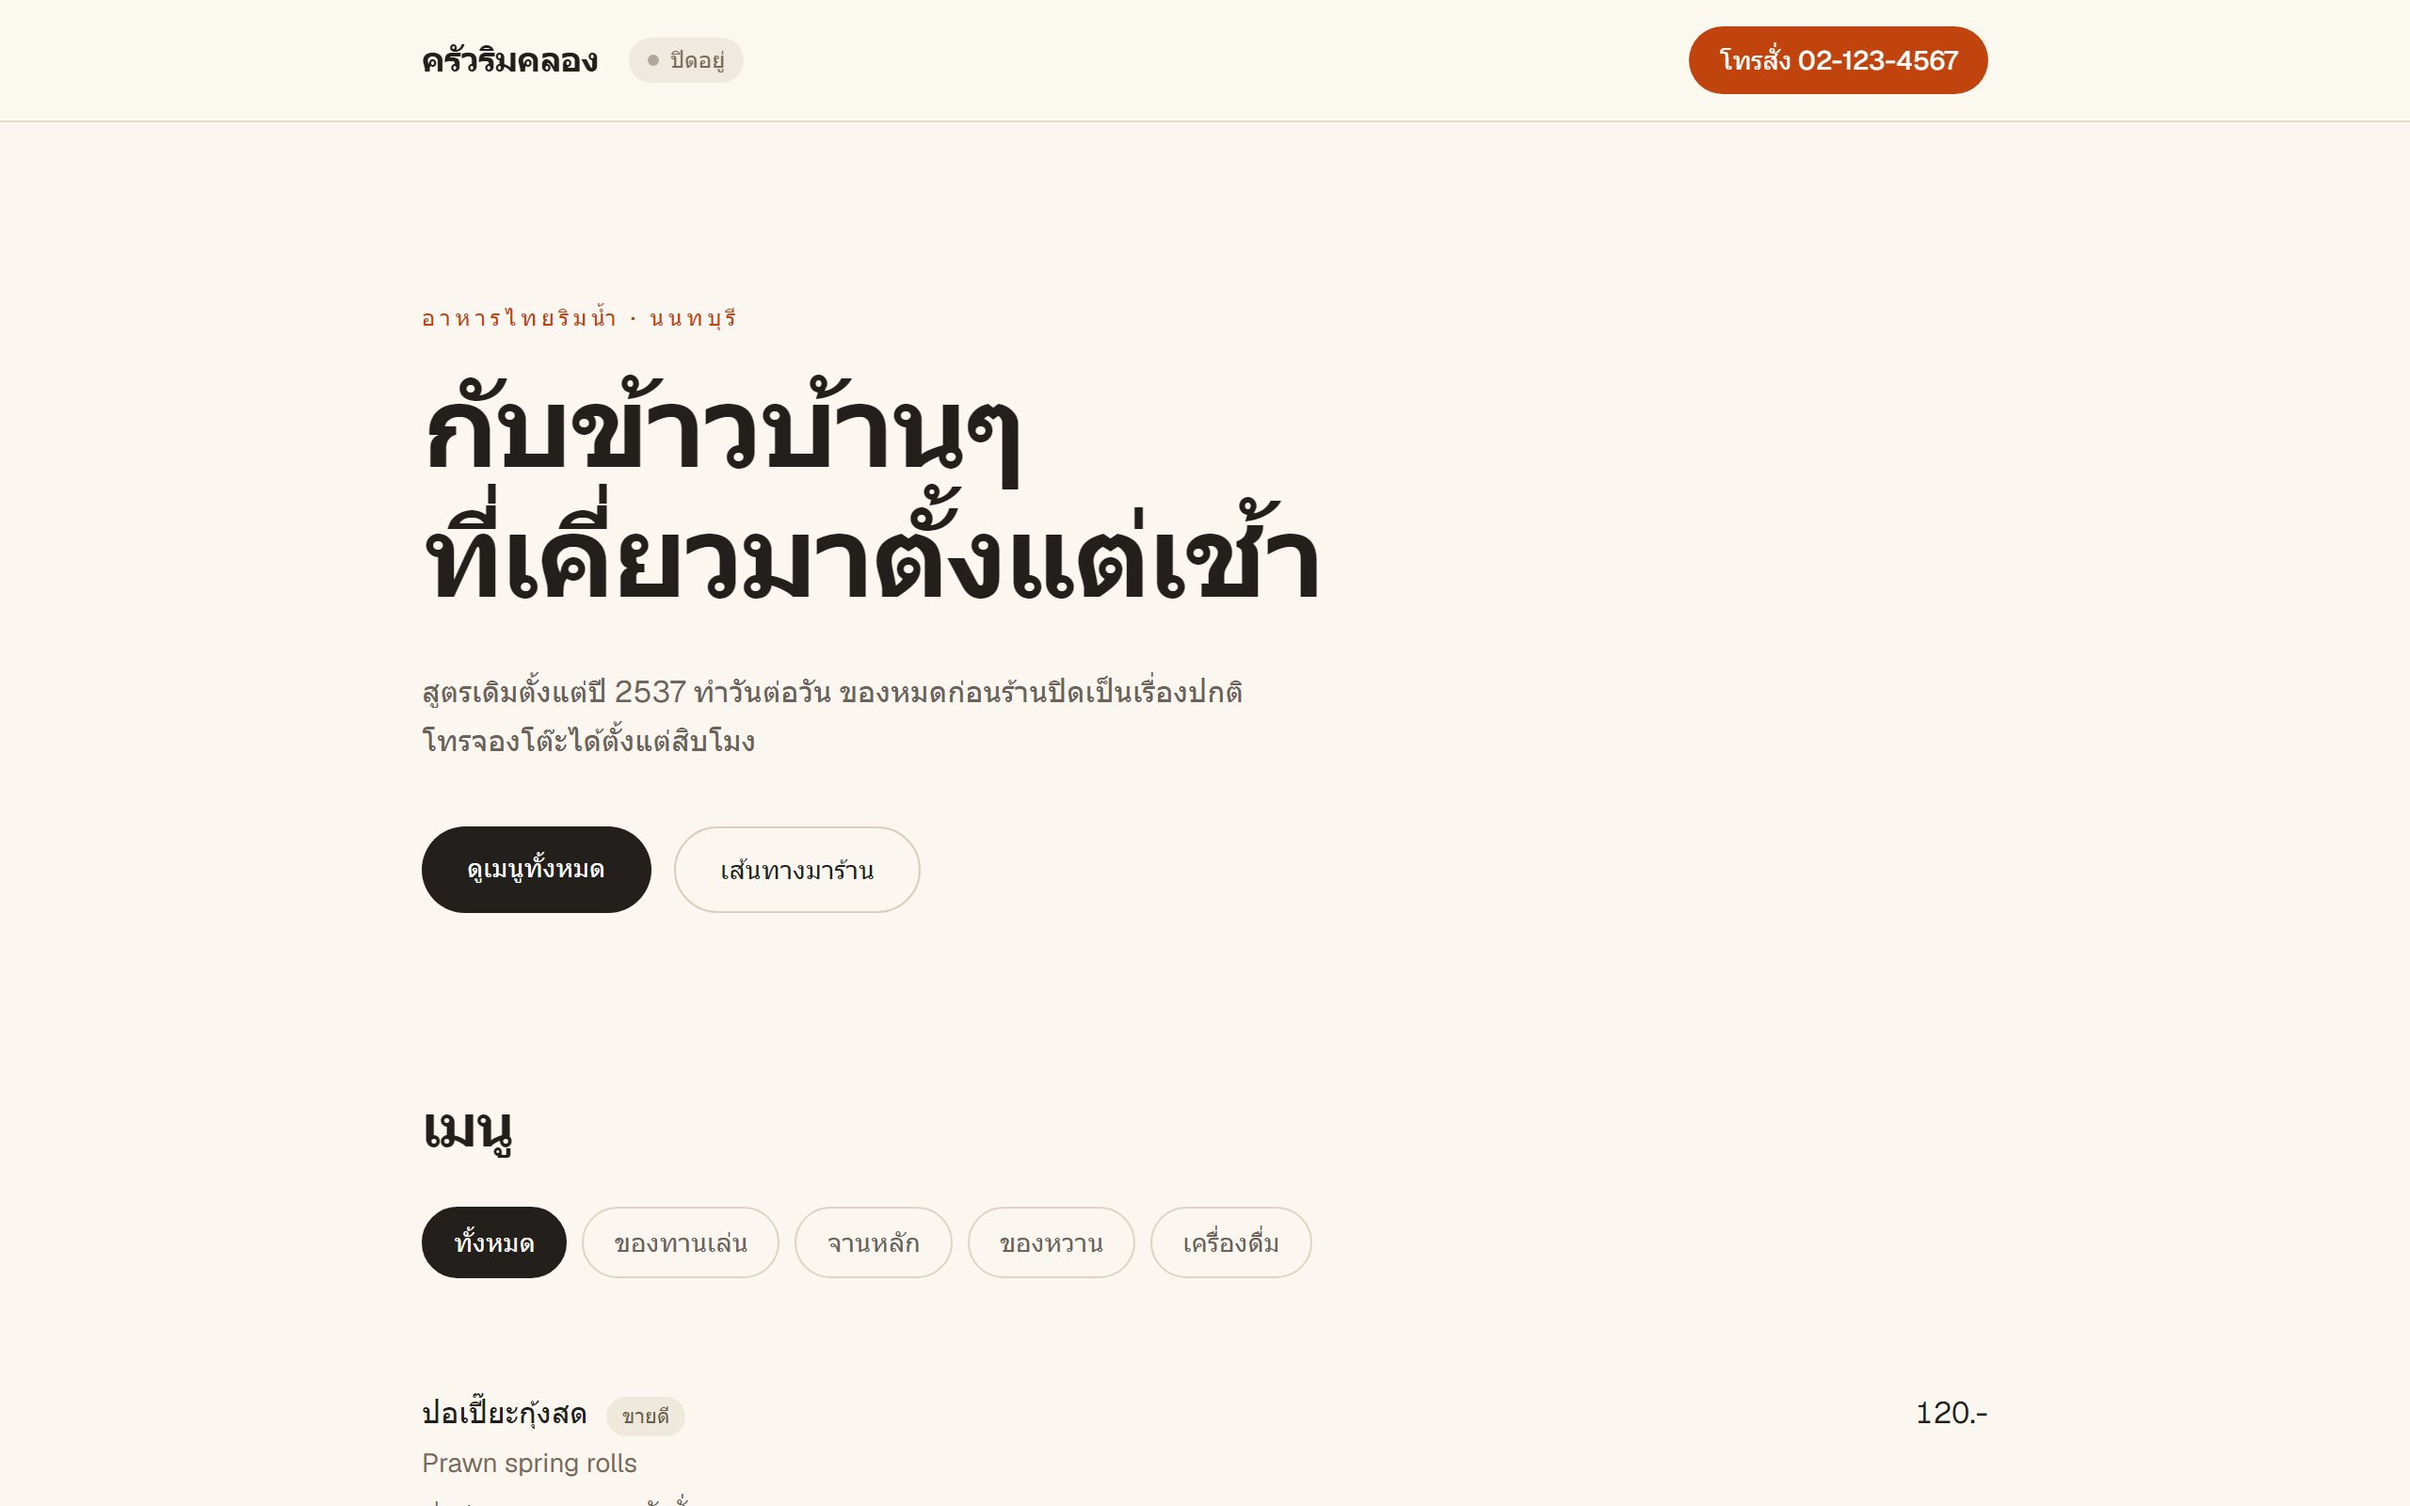
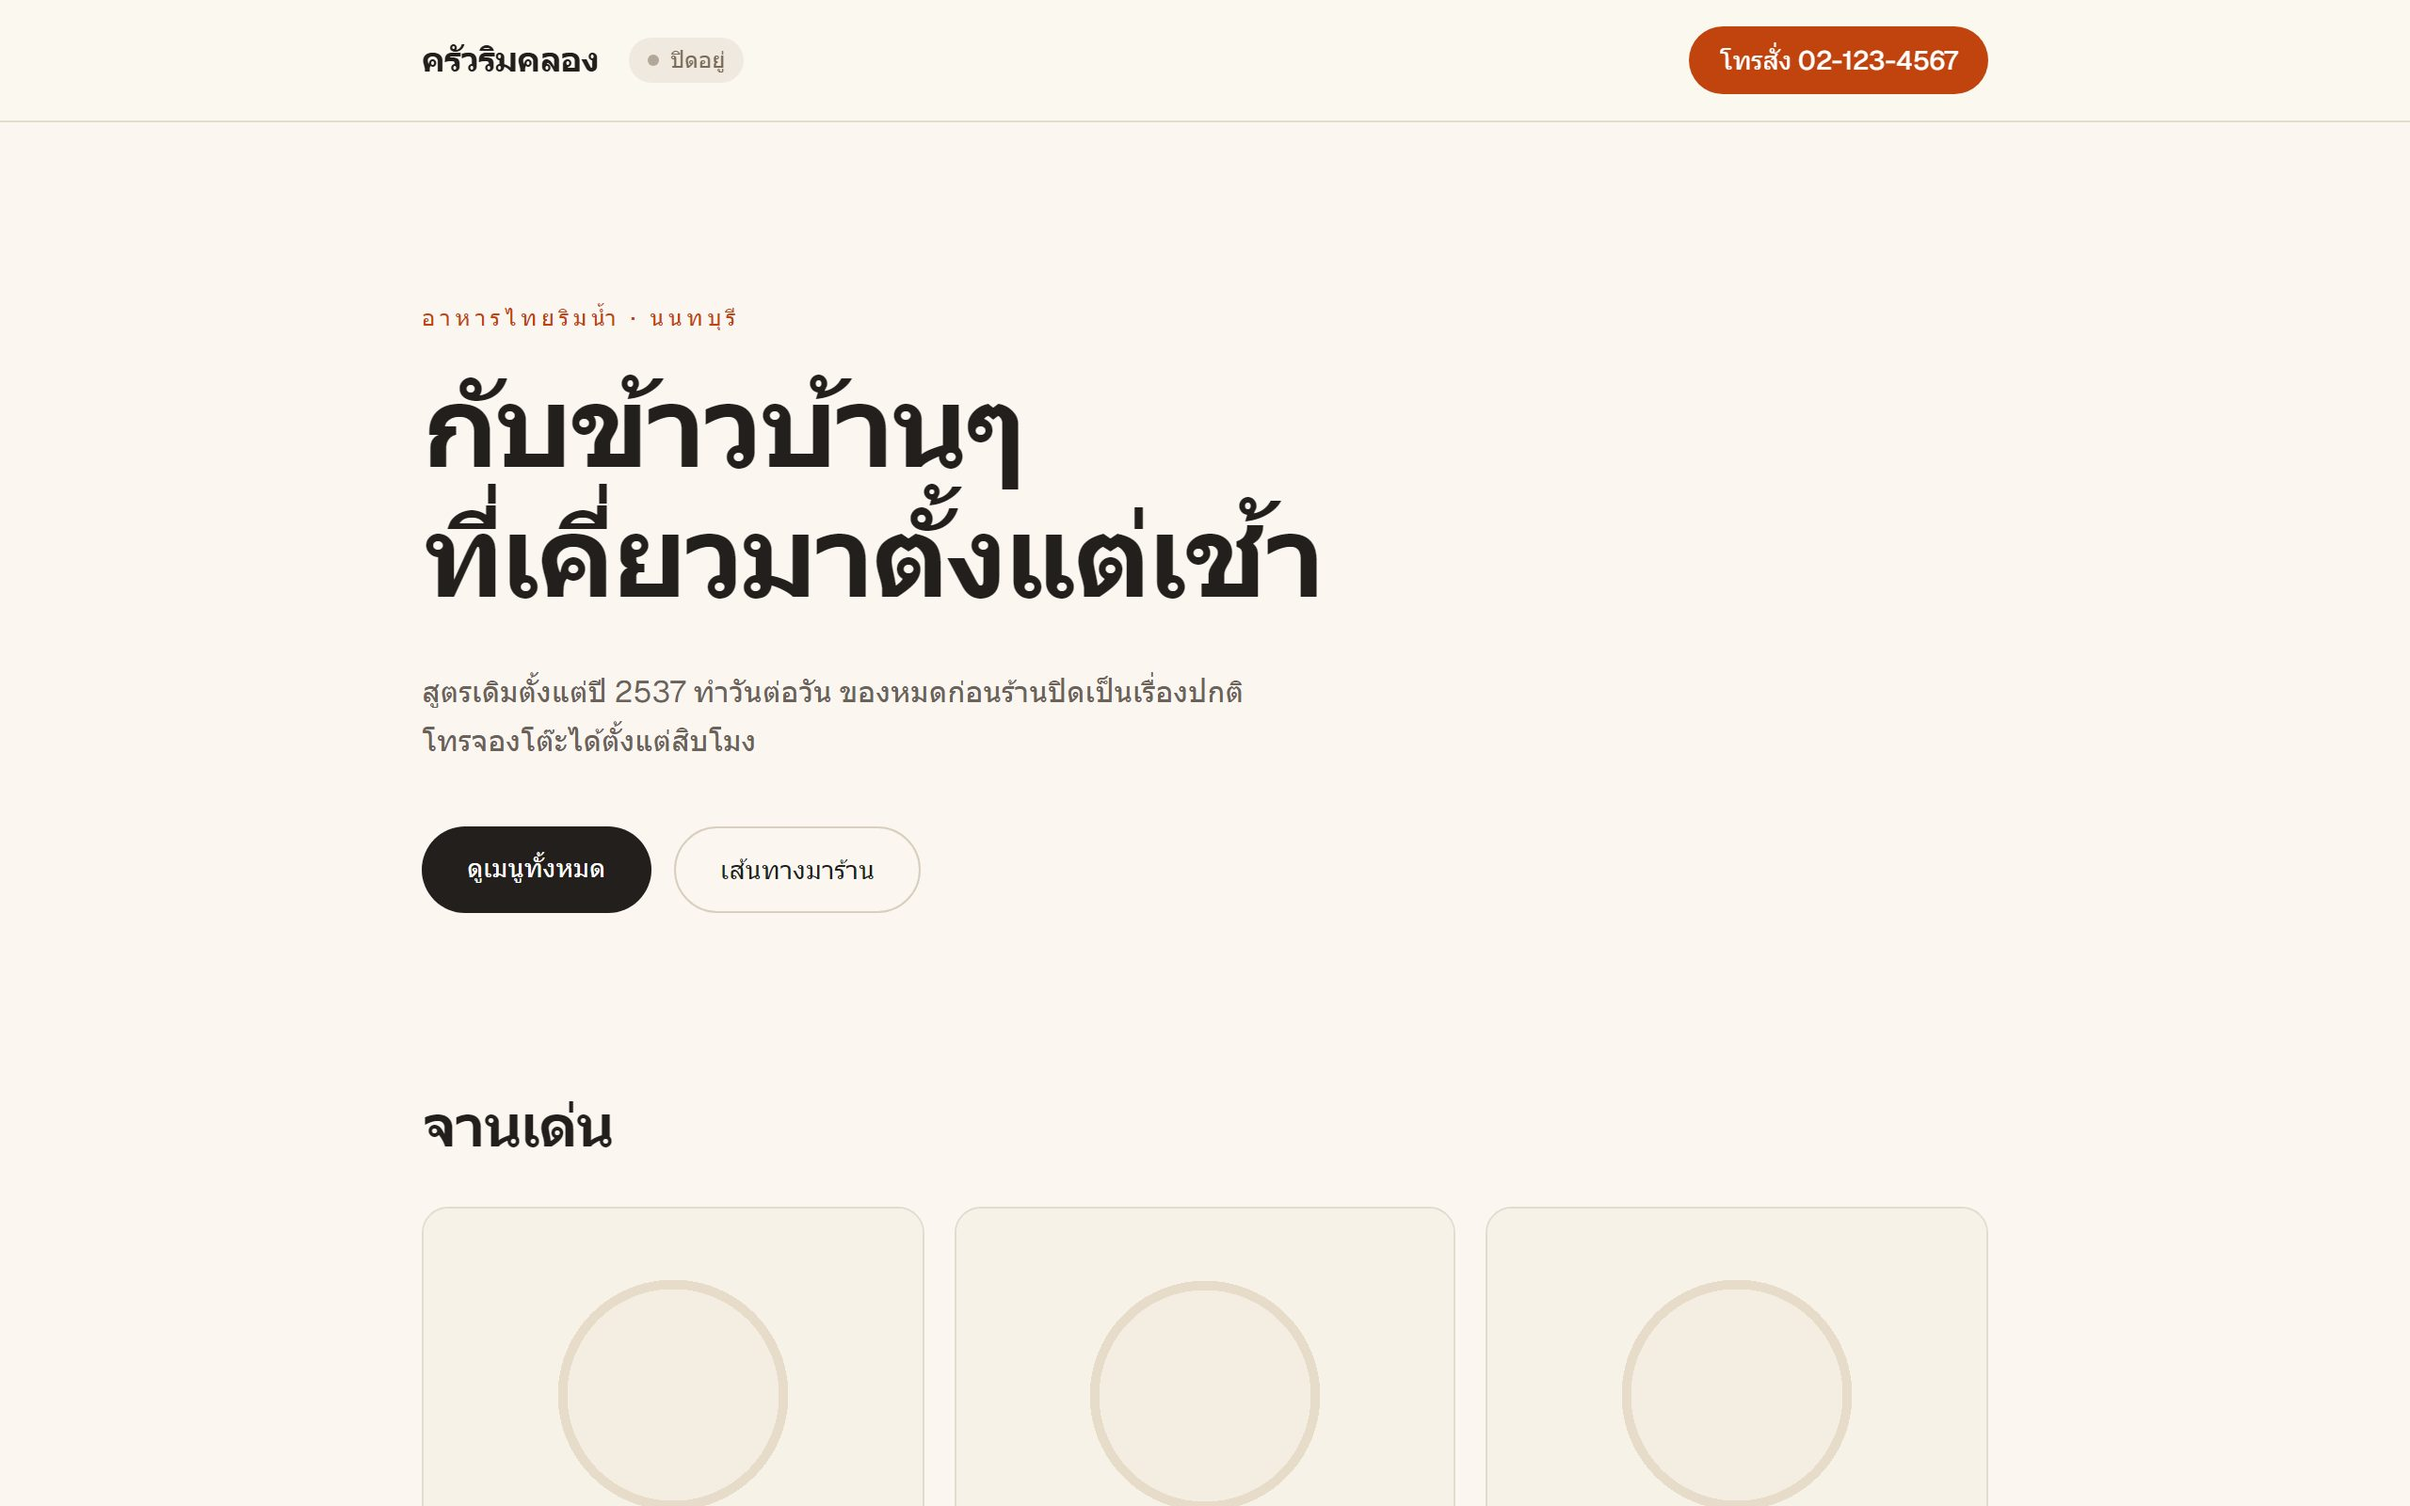
Give Counter somewhere to put the photographs
A menu sells on the food, and the demo had no room for a picture of it. Dishes
now carry an optional photo: a signature strip of three above the list, and a
thumbnail on every row. The three are derived from the dishes already tagged as
best sellers rather than a second list to keep in sync, which is also how a
shop decides what to photograph.

Without a file it draws a plate seen from above instead. An empty grey box
reads as a page that failed to load; a plate reads as a decision, and it is the
exact slot a client's own photo drops into with nothing else changing.

diff --git a/web/src/components/labs/counter-demo.tsx b/web/src/components/labs/counter-demo.tsx
@@ -1,6 +1,7 @@
 "use client";
 
 import { useState, useSyncExternalStore } from "react";
+import Image from "next/image";
 import Link from "next/link";
 import { motion } from "framer-motion";
 
@@ -38,6 +39,8 @@ interface Dish {
   category: string;
   note?: string;
   tags?: string[];
+  /** file under `public/lab-demos/counter/`. Falls back to a drawn plate. */
+  photo?: string;
 }
 
 const MENU: Dish[] = [
@@ -129,6 +132,10 @@ const MENU: Dish[] = [
 ];
 
 const DAY_NAMES = ["อาทิตย์", "จันทร์", "อังคาร", "พุธ", "พฤหัสบดี", "ศุกร์", "เสาร์"];
+
+// Derived rather than a second hand-kept list: the dishes a shop photographs
+// are the ones it already calls its best sellers.
+const FEATURED = MENU.filter((dish) => dish.tags?.includes("ขายดี")).slice(0, 3);
 
 // The badge depends on the visitor's own clock, which exists only on the
 // client. That makes it external state, the same reasoning as the locale store
@@ -290,6 +297,39 @@ export function CounterDemo() {
           </motion.div>
         </section>
 
+        {/* ── the three the shop would photograph ── */}
+        <section className="pb-6">
+          <h2 className="text-2xl font-semibold tracking-tight sm:text-3xl">
+            จานเด่น
+          </h2>
+          <div className="mt-6 grid gap-4 sm:grid-cols-3">
+            {FEATURED.map((dish, i) => (
+              <motion.article
+                key={dish.name}
+                initial={{ opacity: 0, y: 12 }}
+                whileInView={{ opacity: 1, y: 0 }}
+                viewport={{ once: true, margin: "-60px" }}
+                transition={{ duration: 0.45, delay: i * 0.06, ease }}
+                className="overflow-hidden rounded-xl border"
+                style={{ borderColor: "#e3dbcd" }}
+              >
+                <div className="relative aspect-[4/3]">
+                  <DishImage dish={dish} sizes="(min-width: 640px) 30vw, 92vw" />
+                </div>
+                <div className="p-4">
+                  <div className="flex items-baseline justify-between gap-3">
+                    <h3 className="font-medium">{dish.name}</h3>
+                    <span className="shrink-0 tabular-nums">{dish.price}.-</span>
+                  </div>
+                  <p className="mt-1 text-sm" style={{ color: MUTED }}>
+                    {dish.en}
+                  </p>
+                </div>
+              </motion.article>
+            ))}
+          </div>
+        </section>
+
         {/* ── menu ── */}
         <section id="menu" className="scroll-mt-20 pb-8">
           <h2 className="text-2xl font-semibold tracking-tight sm:text-3xl">
@@ -330,9 +370,16 @@ export function CounterDemo() {
                 initial={{ opacity: 0, y: 10 }}
                 animate={{ opacity: 1, y: 0 }}
                 transition={{ duration: 0.35, delay: Math.min(i, 8) * 0.03 }}
-                className="flex items-baseline gap-4 border-t py-5 first:border-t-0"
+                className="flex items-start gap-4 border-t py-5 first:border-t-0"
                 style={{ borderColor: "#e8e0d2" }}
               >
+                <div
+                  className="relative h-16 w-16 shrink-0 overflow-hidden rounded-lg sm:h-20 sm:w-20"
+                  style={{ background: "#f6f0e6" }}
+                >
+                  <DishImage dish={dish} sizes="80px" />
+                </div>
+
                 <div className="min-w-0 flex-1">
                   <div className="flex flex-wrap items-baseline gap-x-2.5 gap-y-1">
                     <h3 className="font-medium">{dish.name}</h3>
@@ -474,5 +521,39 @@ export function CounterDemo() {
         </section>
       </div>
     </main>
+  );
+}
+
+/**
+ * A dish photo, or the plate that stands in for one.
+ *
+ * The demo ships without photography and an empty grey box reads as a page
+ * that failed to load. A plate seen from above reads as a decision, and it is
+ * exactly the slot a shop's own photo drops into: set `photo` on the dish and
+ * nothing else here changes.
+ */
+function DishImage({ dish, sizes }: { dish: Dish; sizes: string }) {
+  if (dish.photo) {
+    return (
+      <Image
+        src={dish.photo}
+        alt={dish.name}
+        fill
+        sizes={sizes}
+        unoptimized
+        className="object-cover"
+      />
+    );
+  }
+
+  return (
+    <div
+      aria-hidden
+      className="h-full w-full"
+      style={{
+        background:
+          "radial-gradient(circle at 50% 50%, #f4ede1 0 34%, #e7dcc9 34% 37%, #f7f2e8 37%)",
+      }}
+    />
   );
 }
